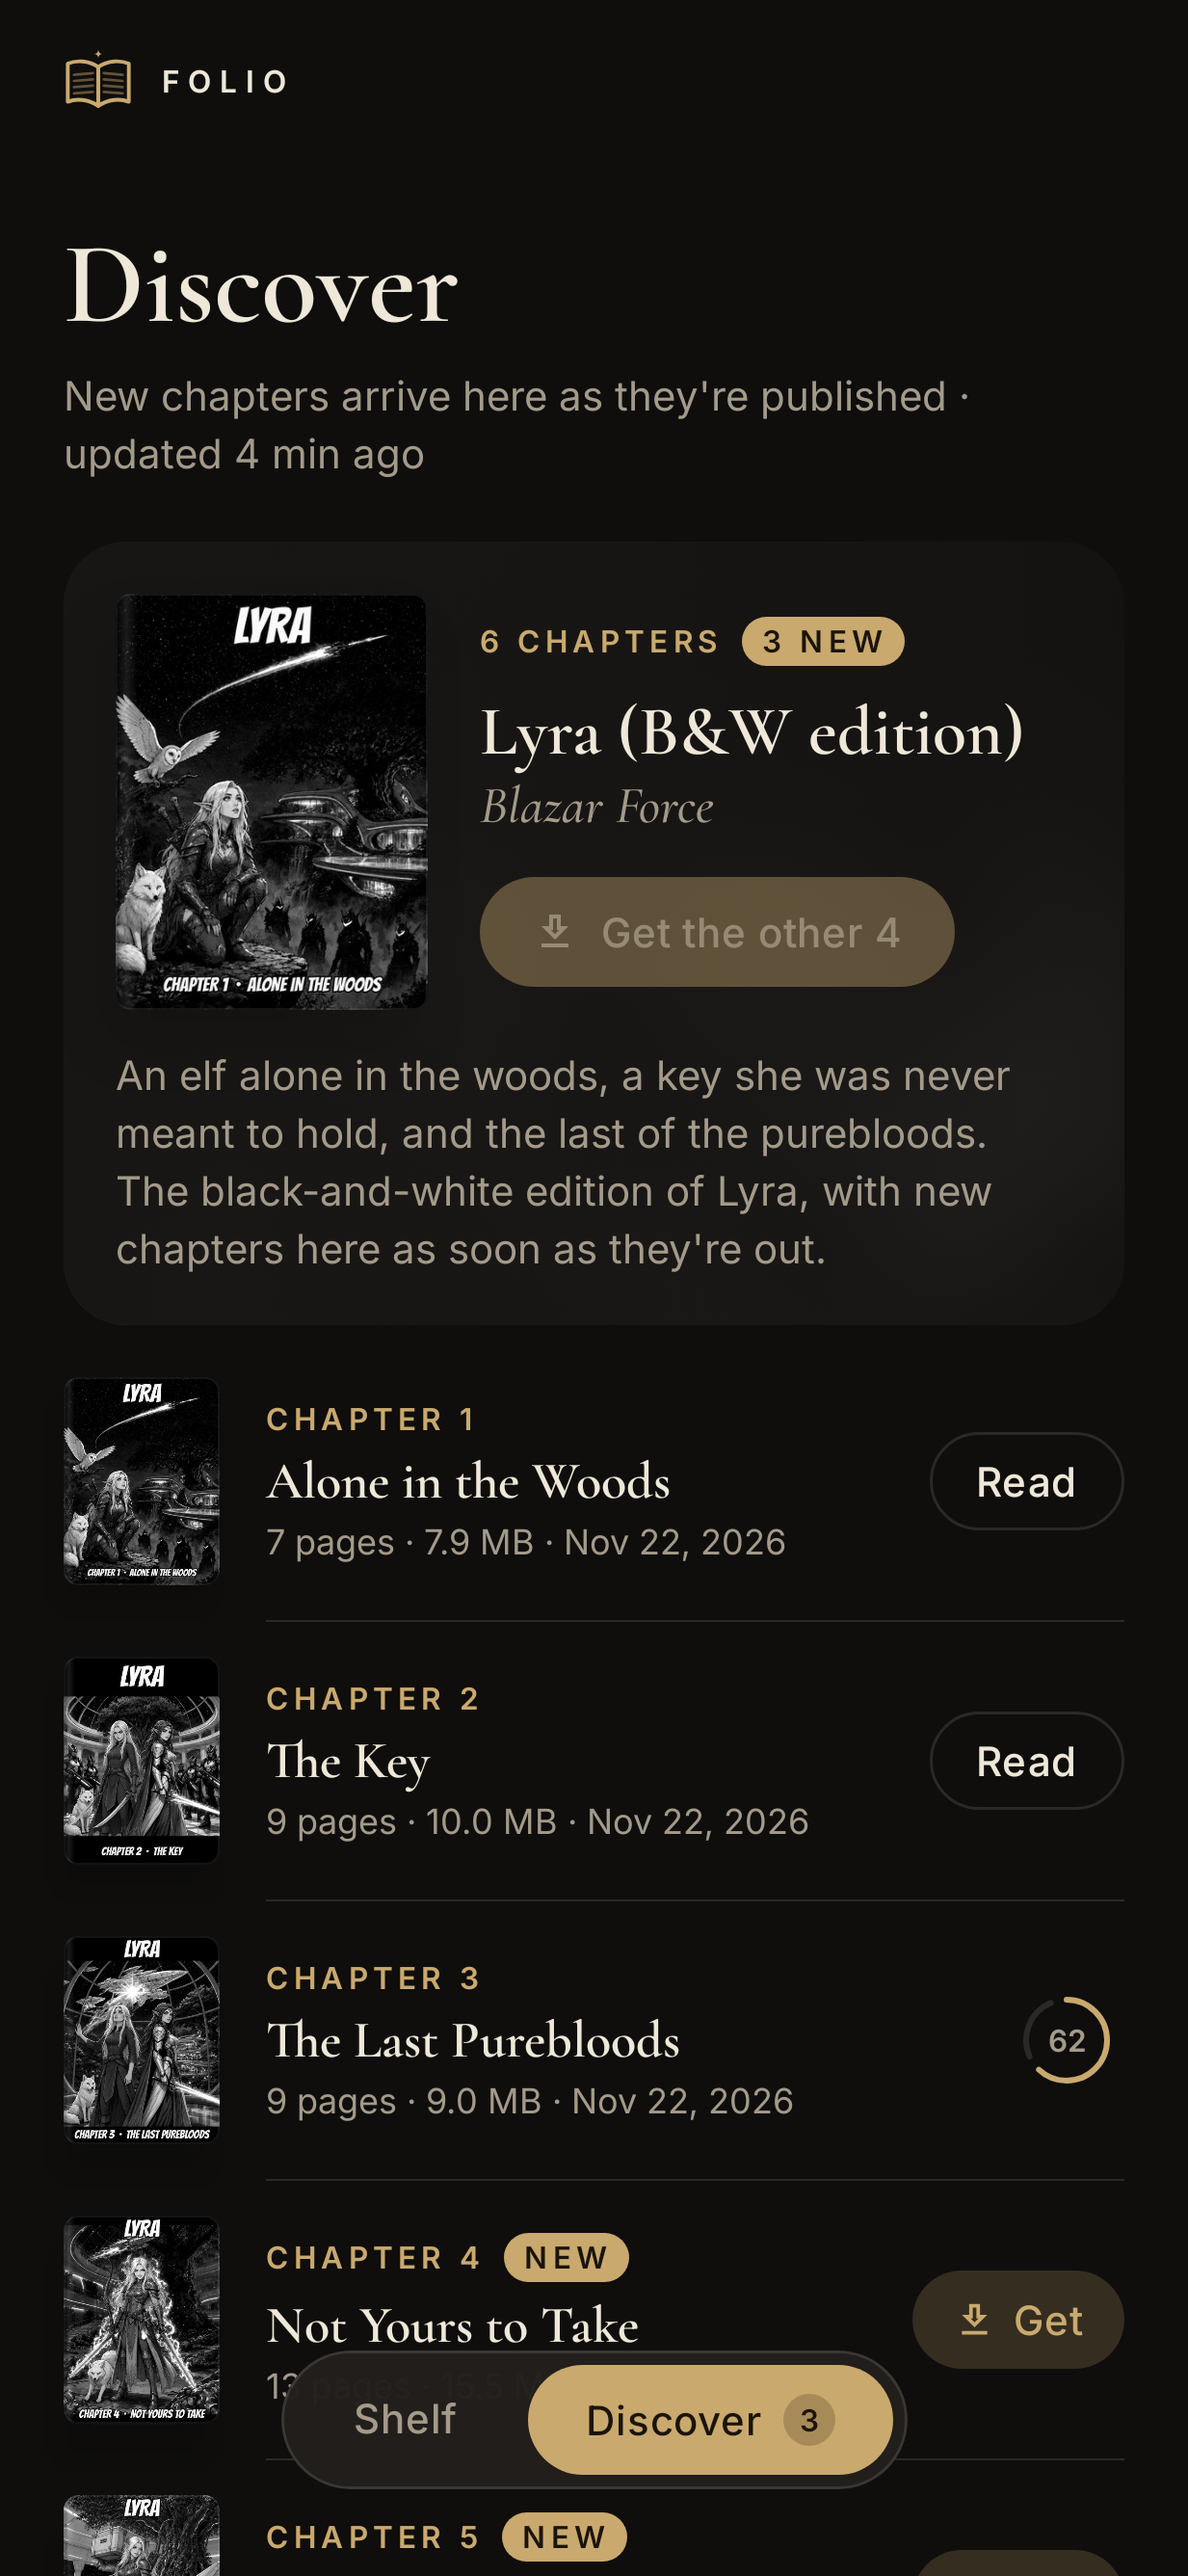
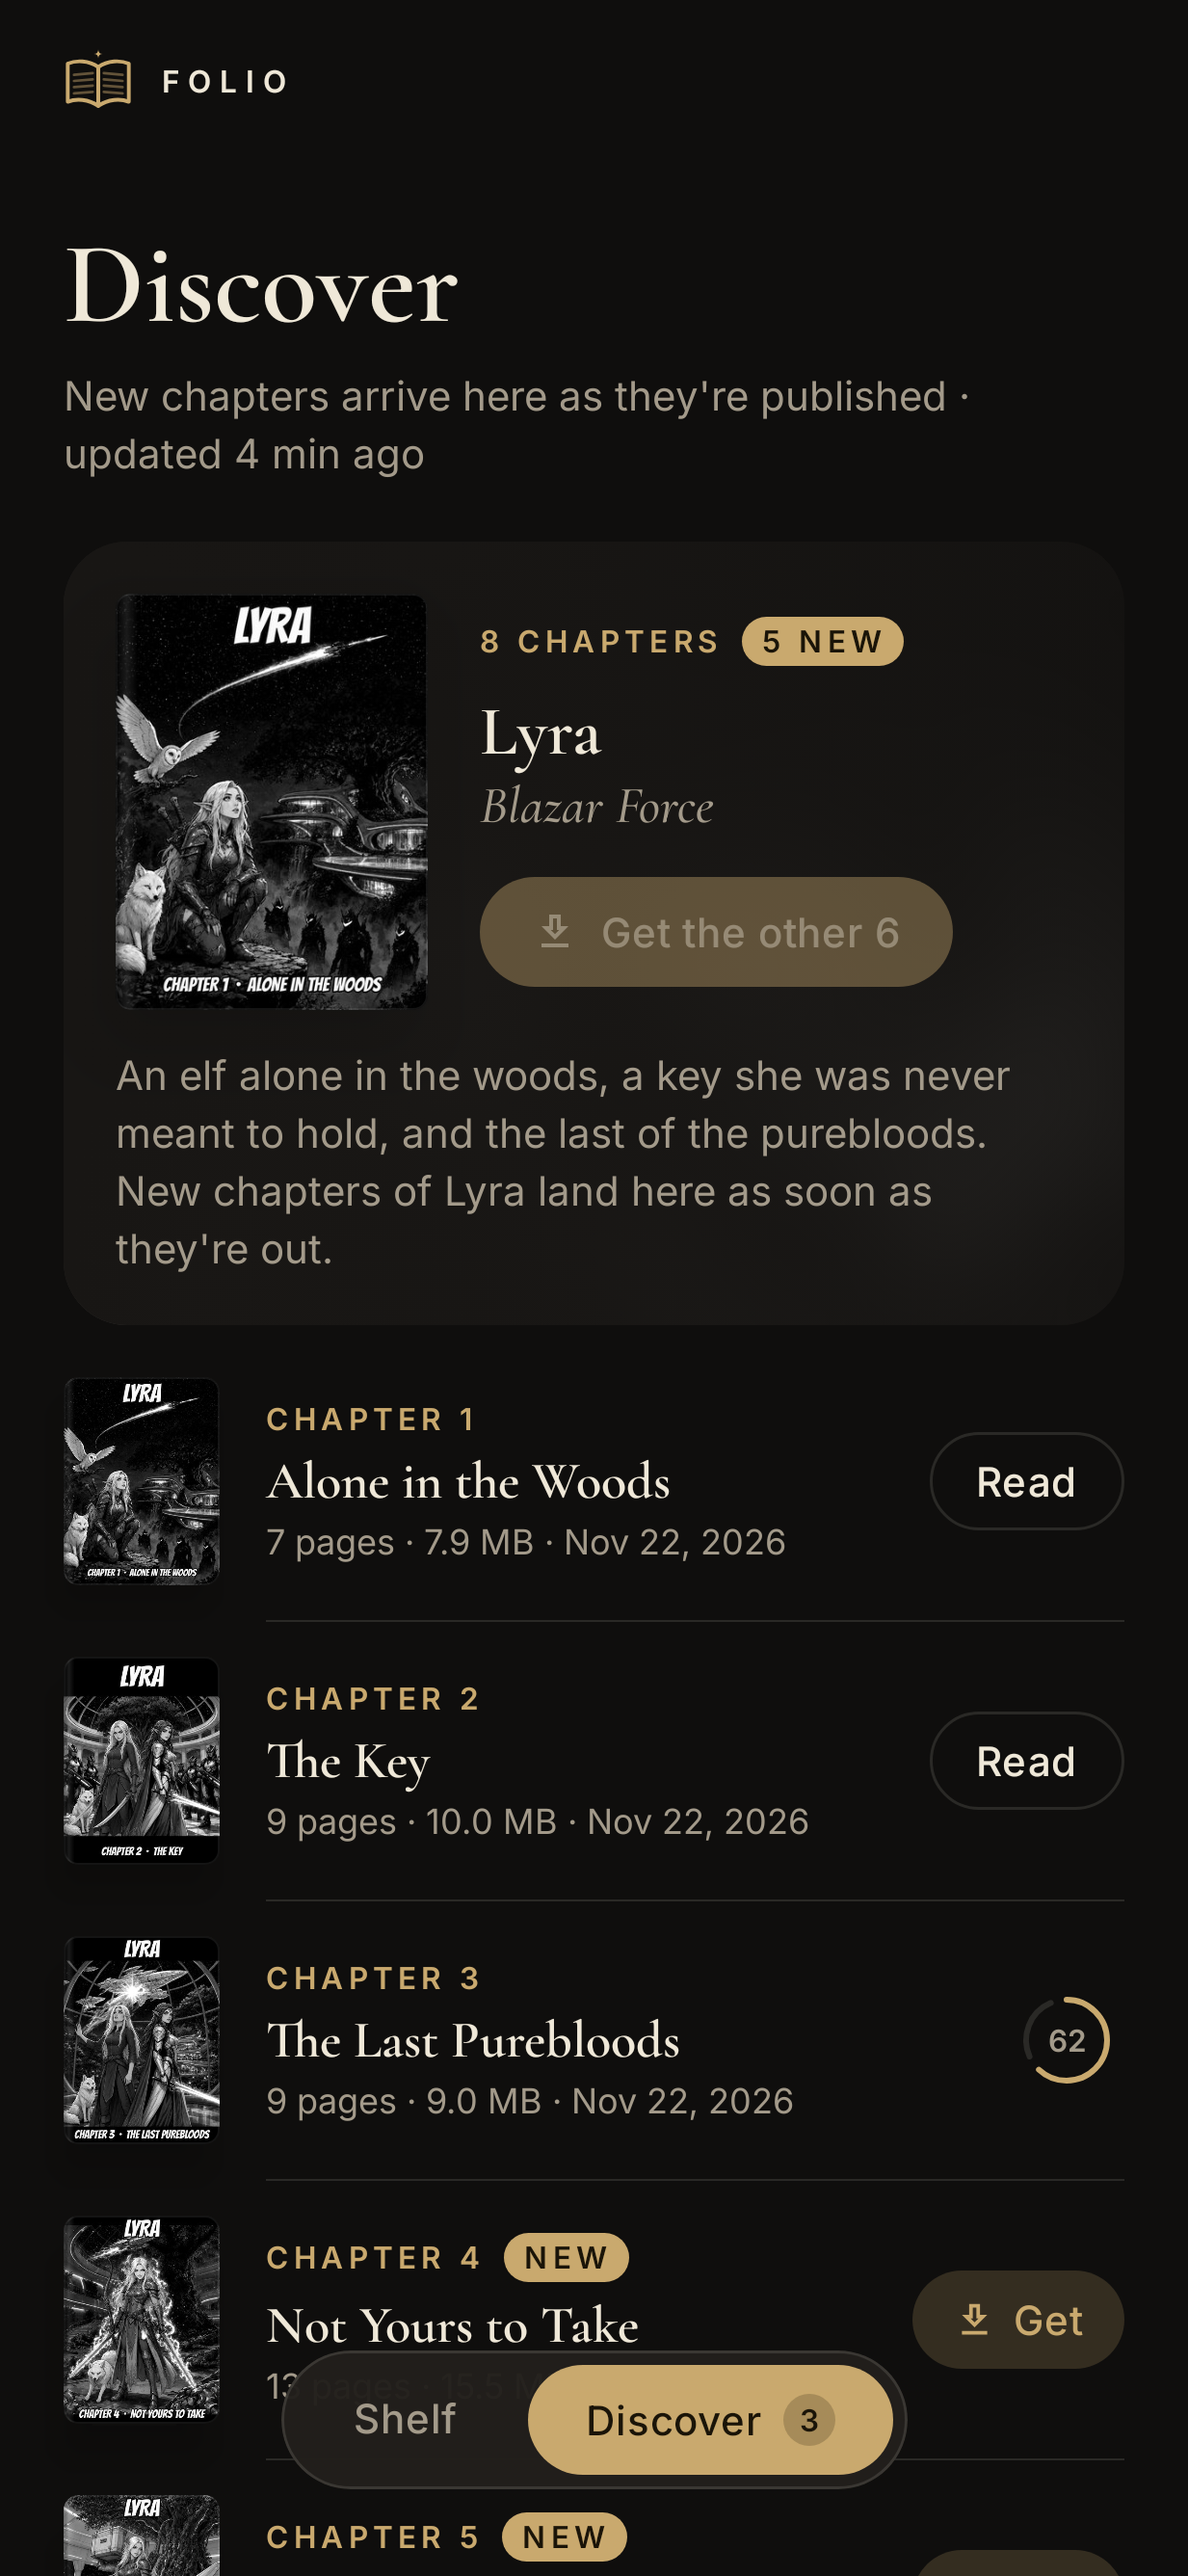
Catalog: show the Lyra series as "Lyra" (same id lyra-bw); publish script keeps an existing series name

diff --git a/app/src/test/java/net/blazarforce/folio/CatalogTest.kt b/app/src/test/java/net/blazarforce/folio/CatalogTest.kt
@@ -37,9 +37,9 @@ class CatalogTest {
         assertEquals(1, c.series.size)
         val s = c.series.first()
         assertEquals("lyra-bw", s.id)
-        assertEquals("Lyra (B&W edition)", s.title)
-        assertEquals(listOf(1.0, 2.0, 3.0, 4.0, 5.0, 6.0), s.chapters.map { it.number })
-        assertEquals(listOf(7, 9, 9, 13, 13, 13), s.chapters.map { it.pages })
+        assertEquals("Lyra", s.title)
+        assertEquals(listOf(1.0, 2.0, 3.0, 4.0, 5.0, 6.0), s.chapters.map { it.number }.take(6))
+        assertEquals(listOf(7, 9, 9, 13, 13, 13), s.chapters.map { it.pages }.take(6))
         s.chapters.forEach {
             assertTrue(it.cbz.startsWith("https://github.com/cannergtfo-commits/folio-comic-reader/releases/download/library/"))
             assertTrue(it.size > 1_000_000)

diff --git a/tools/publish_chapter.py b/tools/publish_chapter.py
@@ -1,7 +1,7 @@
 #!/usr/bin/env python3
 """Publish a comic chapter to Folio's online library.
 
-    python3 tools/publish_chapter.py path/to/Chapter.cbz --series "Lyra (B&W edition)"
+    python3 tools/publish_chapter.py path/to/Chapter.cbz --series "Lyra"
 
 What it does:
   1. Reads the CBZ (page count, ComicInfo.xml title/number, cover page).
@@ -95,7 +95,10 @@ def main():
     if not path.lower().endswith(".cbz") or not os.path.isfile(path):
         sys.exit("Give me a .cbz file.")
     pages, info, cover_bytes = read_cbz(path)
-    series = a.series or info.get("Series") or sys.exit("Pass --series (no Series in ComicInfo.xml).")
+    cat = load_catalog()
+    known = next((x for x in cat["series"] if a.series_id and x["id"] == a.series_id), None)
+    # An existing series keeps its display name unless --series is passed (ComicInfo may say otherwise).
+    series = a.series or (known or {}).get("title") or info.get("Series") or sys.exit("Pass --series (no Series in ComicInfo.xml).")
     number = a.number if a.number is not None else (float(info["Number"]) if "Number" in info else None)
     if number is None:
         m = re.search(r"(?:ch|chapter|issue|_)\s*0*(\d+(?:\.\d+)?)", os.path.basename(path), re.I)
@@ -110,7 +113,6 @@ def main():
     cover_url = f"https://raw.githubusercontent.com/{REPO}/main/catalog/covers/{cover_name}"
     cbz_url = f"https://github.com/{REPO}/releases/download/{TAG}/{file_name}"
 
-    cat = load_catalog()
     s = next((x for x in cat["series"] if x["id"] == sid), None)
     if s is None:
         s = {"id": sid, "title": series, "author": a.author, "description": a.description,

diff --git a/PUBLISHING.md b/PUBLISHING.md
@@ -12,7 +12,7 @@ Cover thumbnails live in `catalog/covers/`. When the catalog changes, every copy
 
 ```bash
 cd folio-comic-reader            # this repo
-python3 tools/publish_chapter.py ~/comics/Lyra_Ch7_BW.cbz --series "Lyra (B&W edition)" --series-id lyra-bw
+python3 tools/publish_chapter.py ~/comics/Lyra_Ch7_BW.cbz --series "Lyra" --series-id lyra-bw
 ```
 
 The title and number come from the CBZ's `ComicInfo.xml` (the comic maker writes it), or pass `--title "…" --number 7`.
@@ -54,7 +54,7 @@ Delete its entry from `catalog/catalog.json` and push. Leave the release asset, 
   "schema": 1,
   "app": { "version": "1.1", "versionCode": 2, "apk": "https://…/Folio.apk", "notes": "…" }, // update banner
   "series": [{
-    "id": "lyra-bw", "title": "Lyra (B&W edition)", "author": "…", "description": "…",
+    "id": "lyra-bw", "title": "Lyra", "author": "…", "description": "…",
     "cover": "https://…/catalog/covers/lyra-bw-1.jpg", "tags": ["…"],
     "chapters": [{
       "id": "lyra-bw-1", "number": 1, "title": "Chapter 1: Alone in the Woods",
